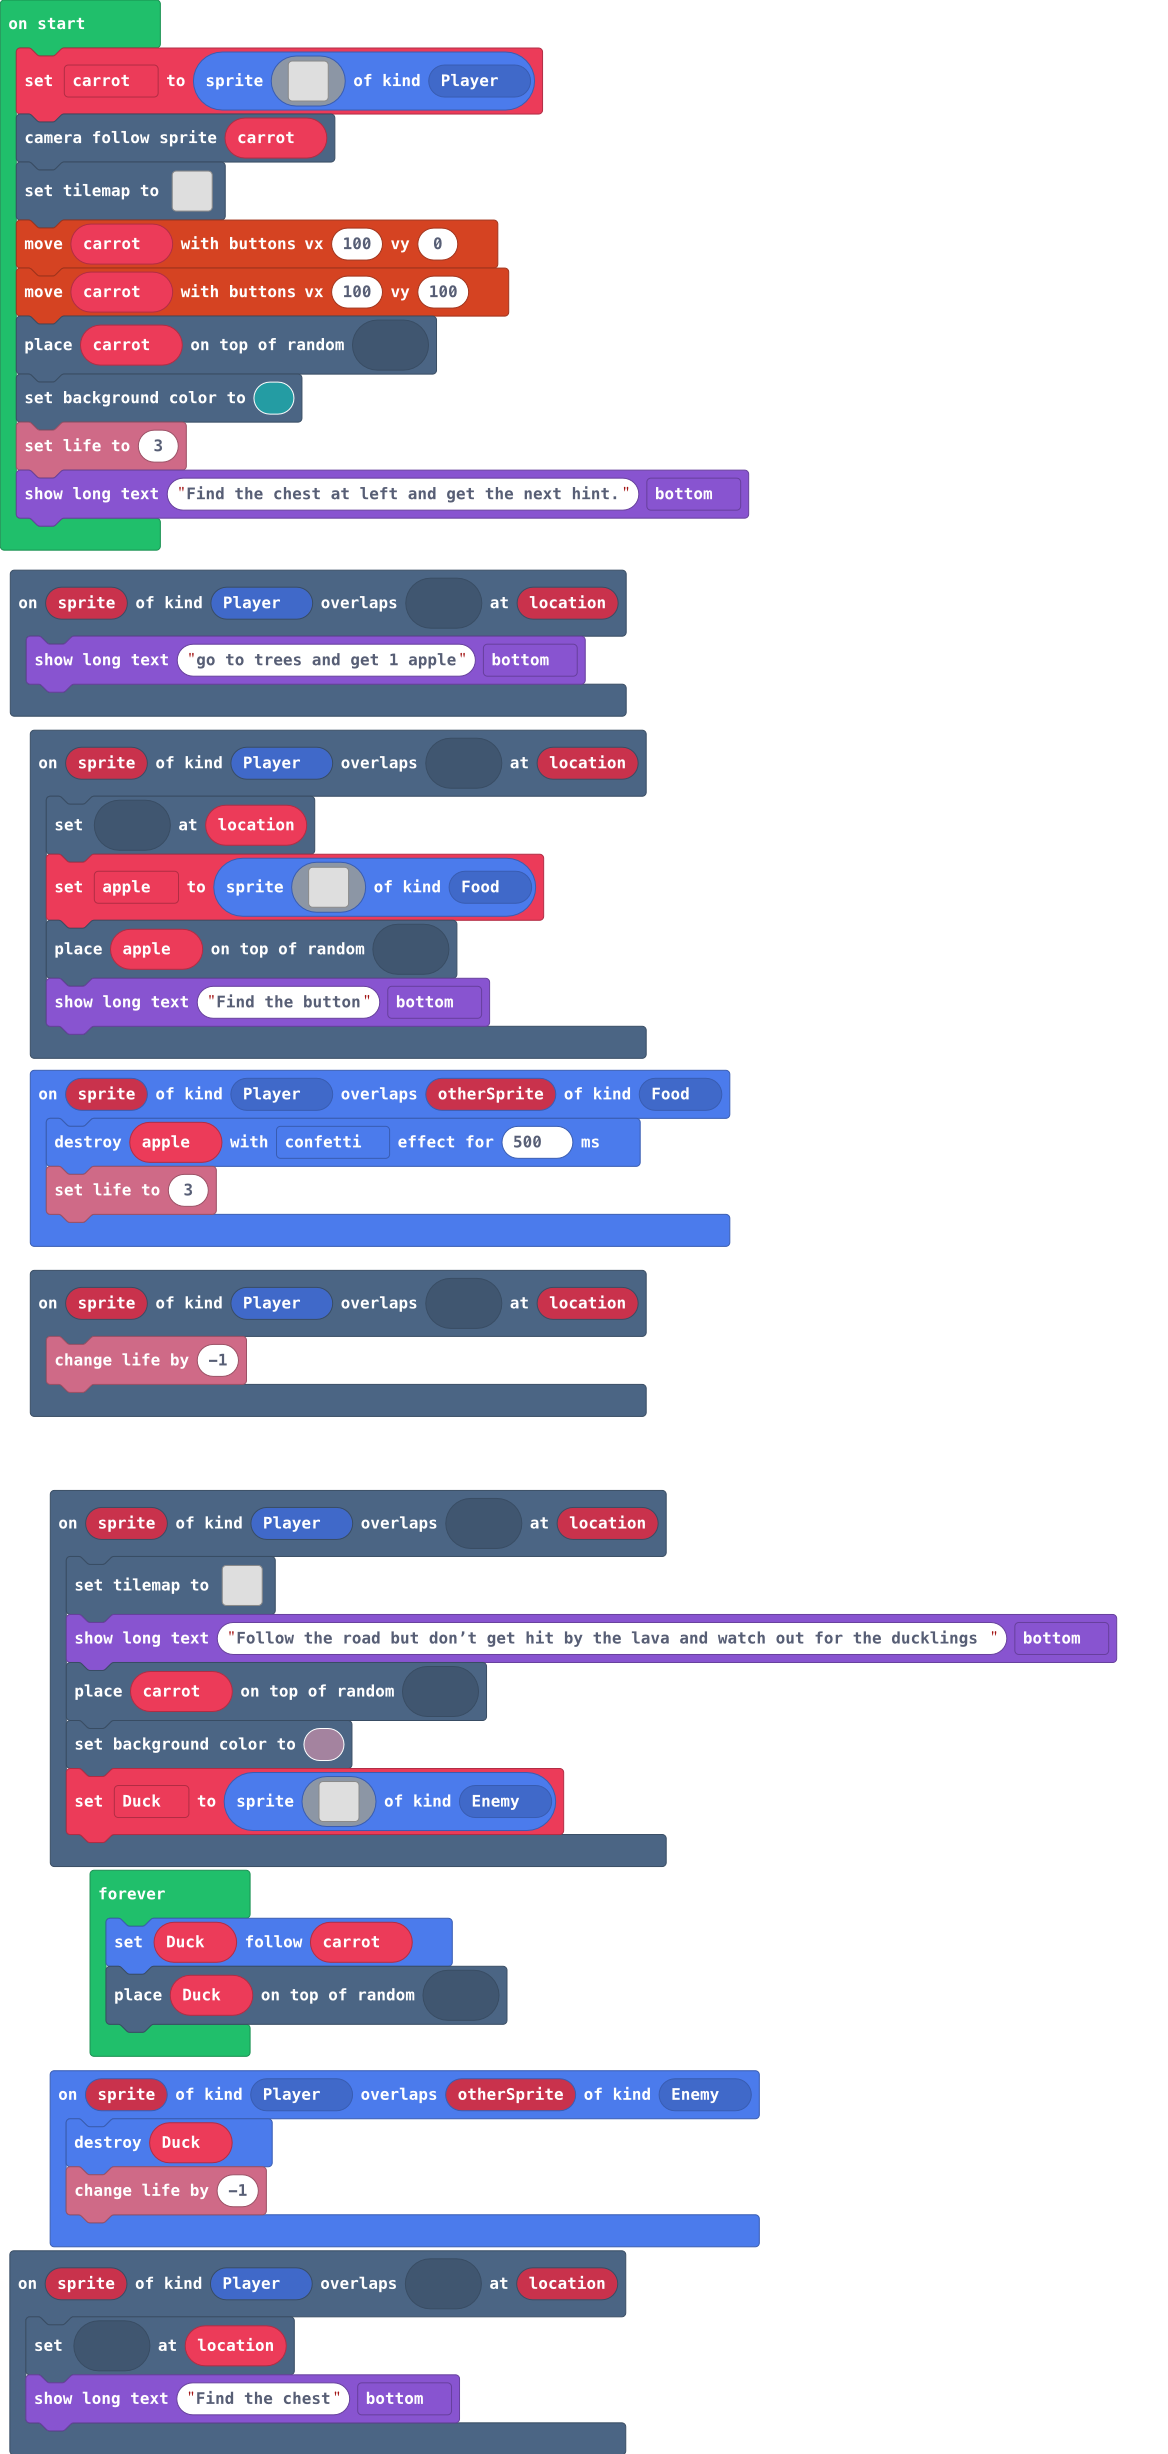
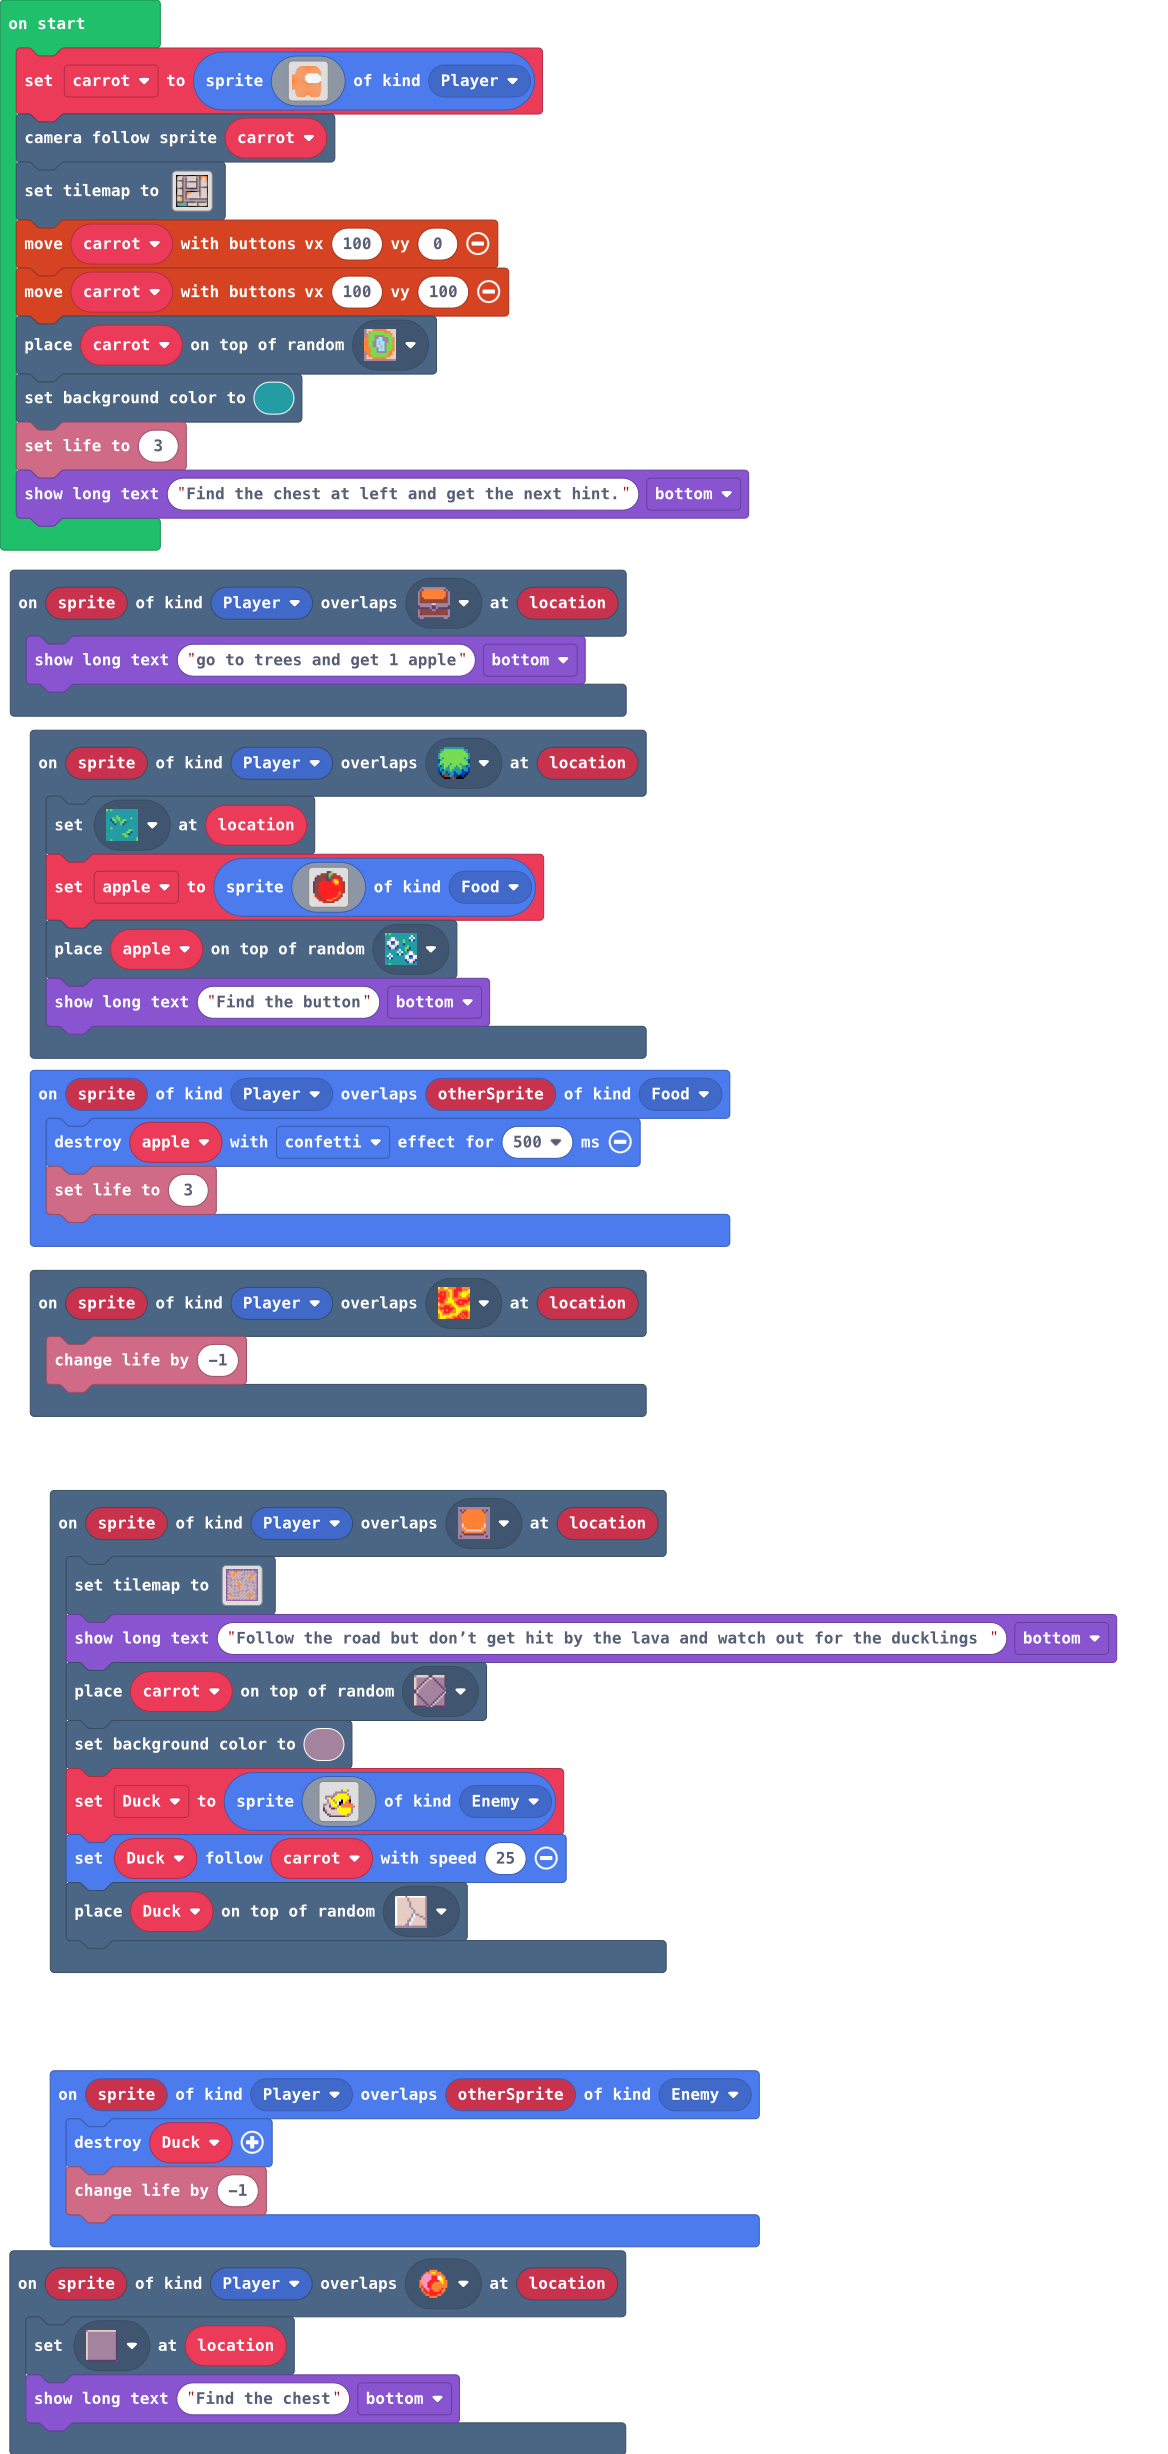
duck

diff --git a/main.ts b/main.ts
@@ -75,6 +75,8 @@ scene.onOverlapTile(SpriteKind.Player, sprites.dungeon.buttonOrange, function (s
         . . c b d d d d d 5 5 5 b b . . 
         . . . c c c c c c c c b b . . . 
         `, SpriteKind.Enemy)
+    Duck.follow(carrot, 25)
+    tiles.placeOnRandomTile(Duck, sprites.dungeon.floorLight5)
 })
 scene.onOverlapTile(SpriteKind.Player, sprites.dungeon.collectibleRedCrystal, function (sprite, location) {
     tiles.setTileAt(location, sprites.dungeon.floorDark2)
@@ -158,7 +160,3 @@ tiles.placeOnRandomTile(carrot, myTiles.tile4)
 scene.setBackgroundColor(6)
 info.setLife(3)
 game.showLongText("Find the chest at left and get the next hint.", DialogLayout.Bottom)
-forever(function () {
-    Duck.follow(carrot)
-    tiles.placeOnRandomTile(Duck, sprites.dungeon.floorLight5)
-})
